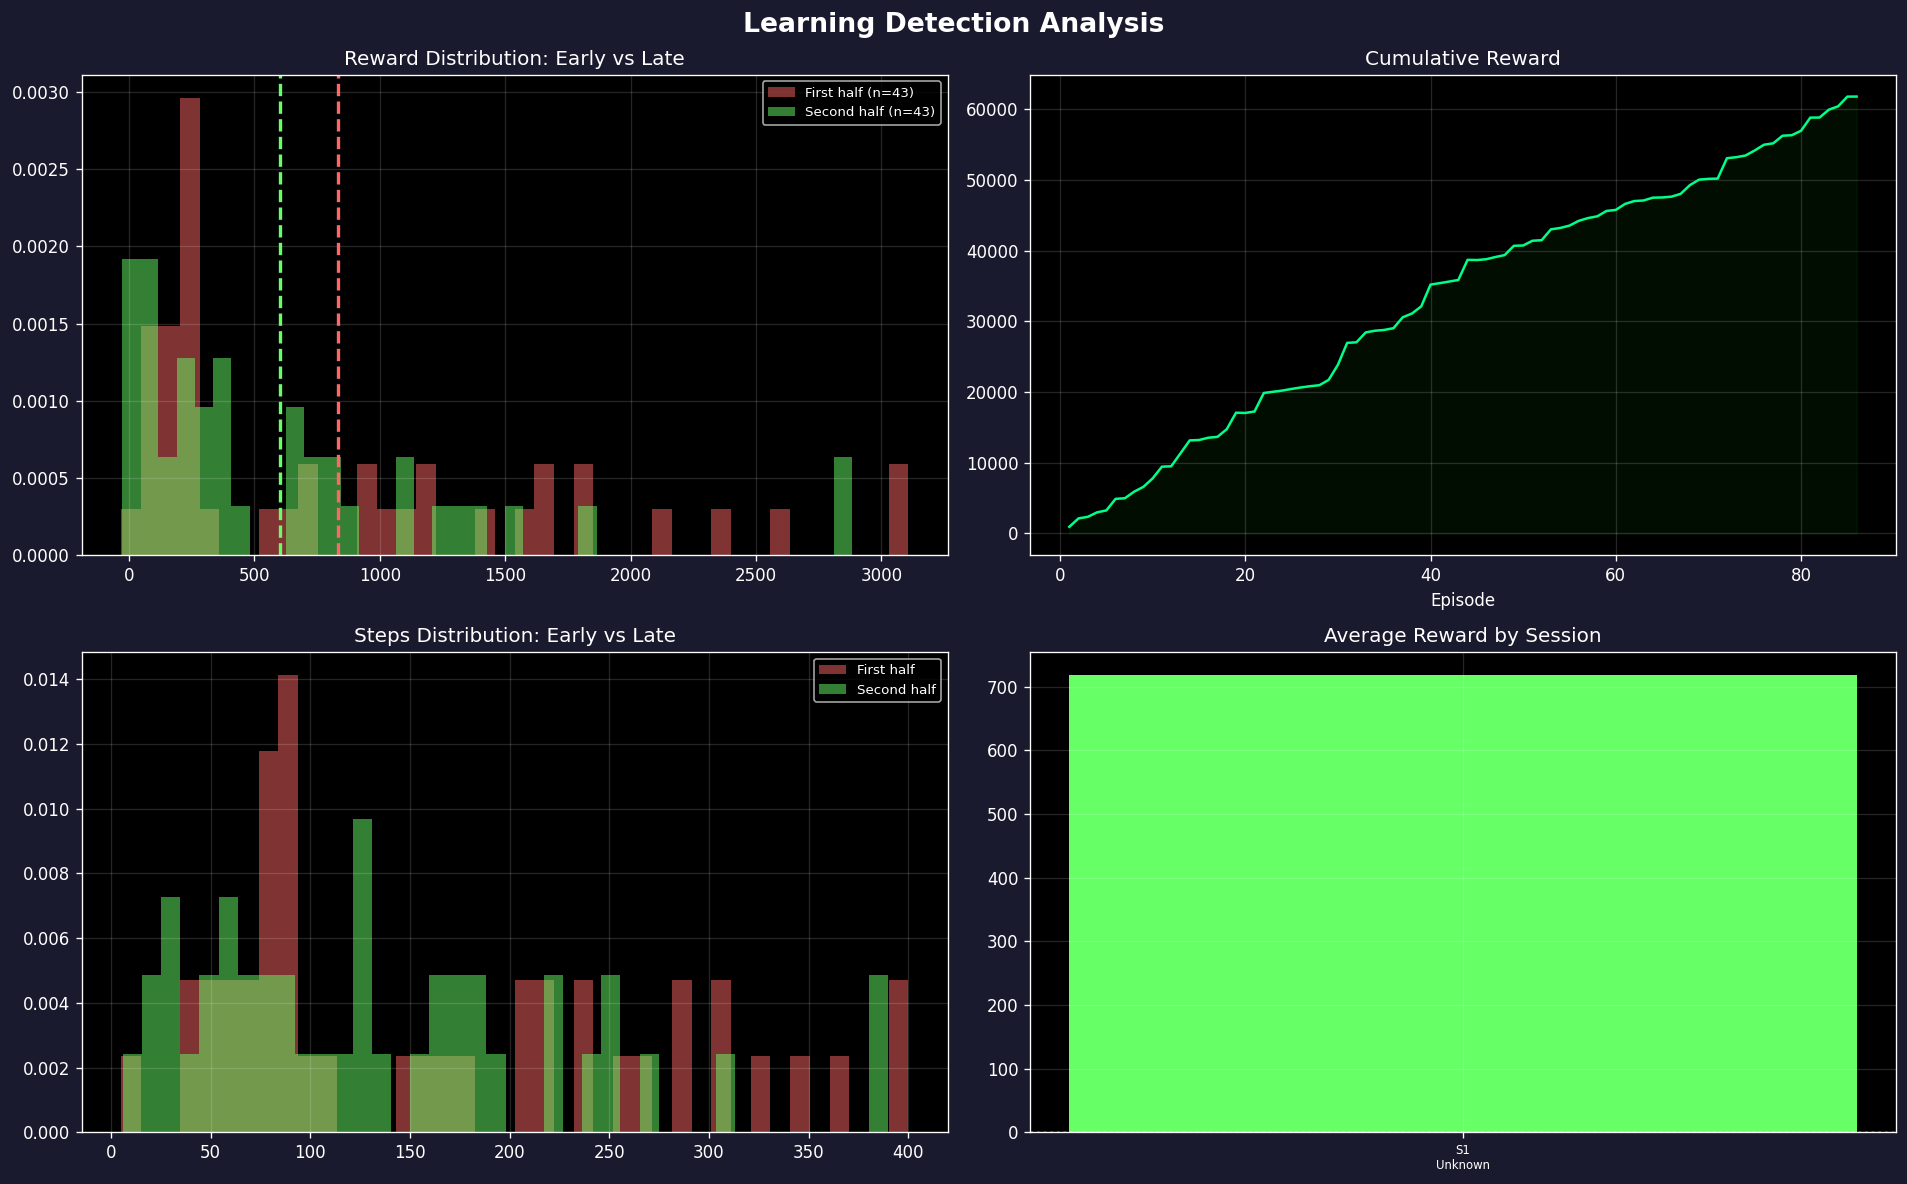
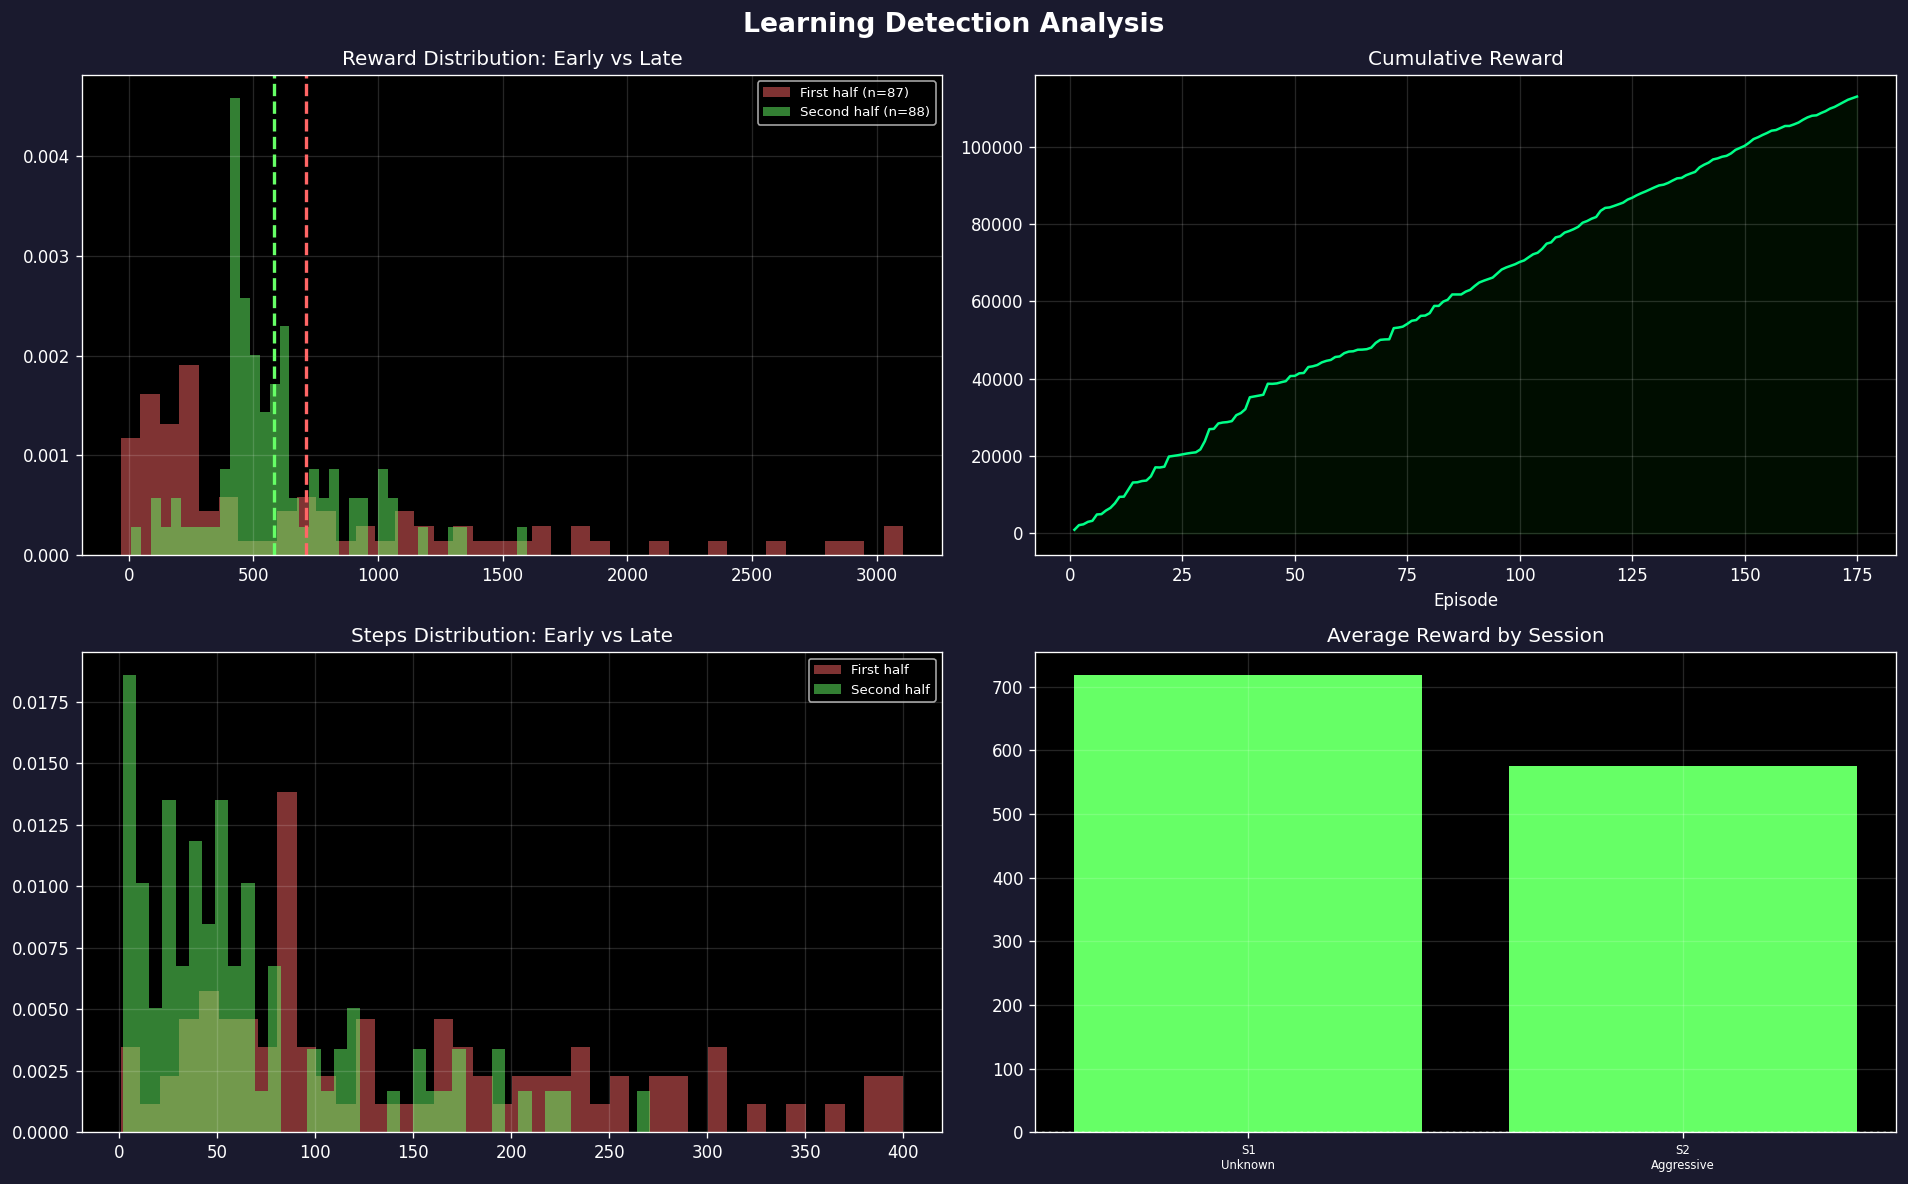
stats

diff --git a/gen2/progress_report.md b/gen2/progress_report.md
@@ -1,27 +1,24 @@
 # Slither.io Bot - Training Progress Report
 
-**Generated:** 2026-02-12 16:31:20  
-**Total Episodes:** 86  
-**Training Sessions:** 1
+**Generated:** 2026-02-12 16:41:24  
+**Total Episodes:** 175  
+**Training Sessions:** 2
 
-## Verdict: NOT LEARNING (Confidence: 50%)
+## Verdict: NOT LEARNING (Confidence: 45%)
 
 **Goal Feasibility:** UNLIKELY (5-25% chance) without tuning
 
 ### Warnings
-- Epsilon very high (0.866) - still mostly random
-
-### Positive Signals
-- Loss decreasing (model converging)
+- Epsilon very high (0.811) - still mostly random
 
 ## Key Statistics
 
 | Metric | Mean | Std | Min | Max | P50 | P95 |
 |--------|------|-----|-----|-----|-----|-----|
-| Reward | 718.53 | 784.57 | -31.58 | 3106.91 | 362.48 | 2544.06 |
-| Steps | 149.63 | 103.74 | 5.00 | 400.00 | 117.50 | 360.75 |
-| Food | 49.84 | 27.70 | 3.00 | 122.00 | 39.00 | 102.75 |
-| Loss | 0.14 | 0.39 | 0.01 | 3.35 | 0.05 | 0.42 |
+| Reward | 645.54 | 589.94 | -31.58 | 3106.91 | 490.90 | 1829.70 |
+| Steps | 106.73 | 94.32 | 1.00 | 400.00 | 75.00 | 302.00 |
+| Food | 39.33 | 24.16 | 0.00 | 122.00 | 31.00 | 86.60 |
+| Loss | 0.23 | 0.31 | 0.00 | 3.35 | 0.14 | 0.63 |
 
 ## Goal Progress
 
@@ -35,6 +32,7 @@
 | # | Style | Episodes | Avg Reward | Avg Steps |
 |---|-------|----------|------------|----------|
 | 1 | Unknown | 1-86 | 718.5 | 150 |
+| 2 | Aggressive (Hunter) | 87-175 | 575.0 | 65 |
 
 ## Recommendations
 
@@ -43,7 +41,11 @@ Some learning signals present but not strong enough.
   2. Increase training duration significantly
   3. Consider curriculum adjustments
 
-1. Epsilon is 0.866 after 86 episodes. Consider faster decay (eps_decay=50000) or lower eps_start if resuming.
+1. Epsilon is 0.811 after 175 episodes. Consider faster decay (eps_decay=50000) or lower eps_start if resuming.
+
+2. Average episode too short. Consider:
+     - Reducing death penalties to avoid discouraging exploration
+     - Adding survival bonus to incentivize staying alive
 
 ## Charts
 
